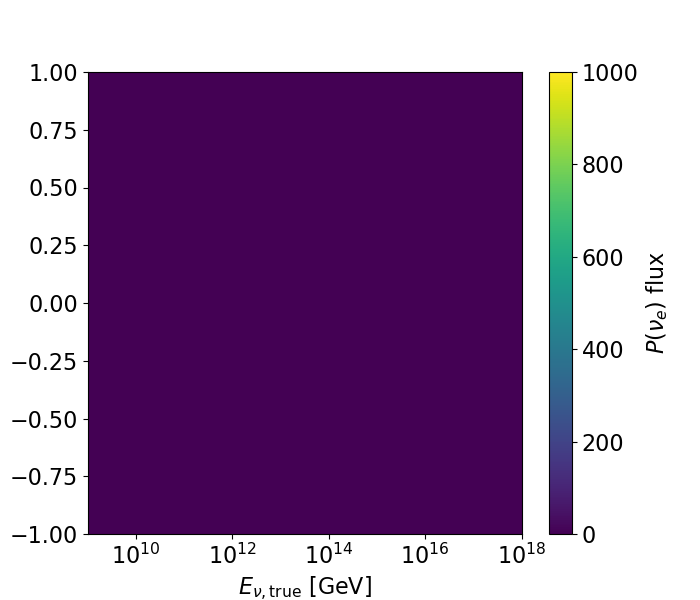
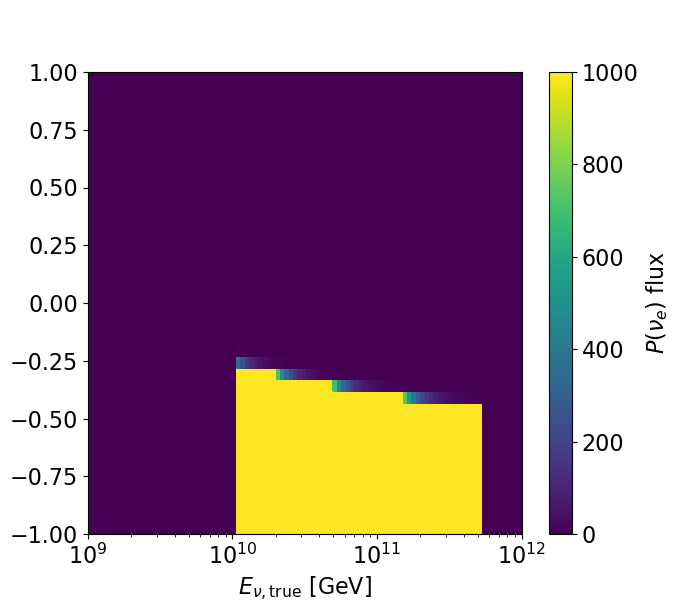
flux

Changed region(s): [[0.33, 0.57, 0.69, 0.96], [0.09, 0.9, 0.24, 0.93], [0.75, 0.9, 0.78, 0.93]]

diff --git a/sources/20200421_IceCube_Upgrade_Neutrino_Monte_Carlo_Simulation/IceCubeUpgradeNeutrinoMCDataRelease/events/analysis.py b/sources/20200421_IceCube_Upgrade_Neutrino_Monte_Carlo_Simulation/IceCubeUpgradeNeutrinoMCDataRelease/events/analysis.py
@@ -87,7 +87,7 @@ _ = ax.legend()
 interactions = False
 
 E_min = 1.0*units.GeV
-E_max = 1.0e3*units.PeV
+E_max = 1.0e3*units.GeV
 E_nodes = 100
 energy_nodes = nsq.logspace(E_min,E_max,E_nodes)
 
@@ -106,7 +106,7 @@ flux = nuflux.makeFlux("honda2006")
 # First lets check out what the flux looks like
 fig, ax = plt.subplots(figsize = (7,6))
 energy_grid, coszen_grid = np.meshgrid(energy_nodes, cth_nodes, indexing="ij")
-flux_grid = flux.getFlux(nuflux.NuE, energy_grid*units.GeV, np.arccos(coszen_grid))
+flux_grid = flux.getFlux(nuflux.NuE, energy_grid/units.GeV, np.arccos(coszen_grid))
 cmesh = ax.pcolormesh(energy_grid, coszen_grid, flux_grid, vmin=0., vmax=1000.)
 fig.colorbar(cmesh, ax=ax, label=r"$P(\nu_e)$"" flux")
 ax.set_xlabel(r"$E_{\nu,\rm{true}}$ [GeV]")
@@ -114,7 +114,7 @@ ax.set_xscale("log")
 ax.set_ylabel(r"$\cos(\theta_{\rm{zenith,true}})$")
 fig.savefig("Nu_E_Fluxx.png")
 
-
+'''
 AtmInitialFlux = np.zeros((len(cth_nodes),len(energy_nodes),2,neutrino_flavors))
 flux = nuflux.makeFlux('honda2006')
 for ic,cth in enumerate(nsq_atm.GetCosthRange()):
@@ -139,4 +139,4 @@ print(AtmInitialFluxNuE.shape)
 
 plt.imshow(AtmInitialFluxNuE, cmap = "hot", interpolation = "nearest")
 plt.savefig("ExampleFlux.png")
-
+'''
